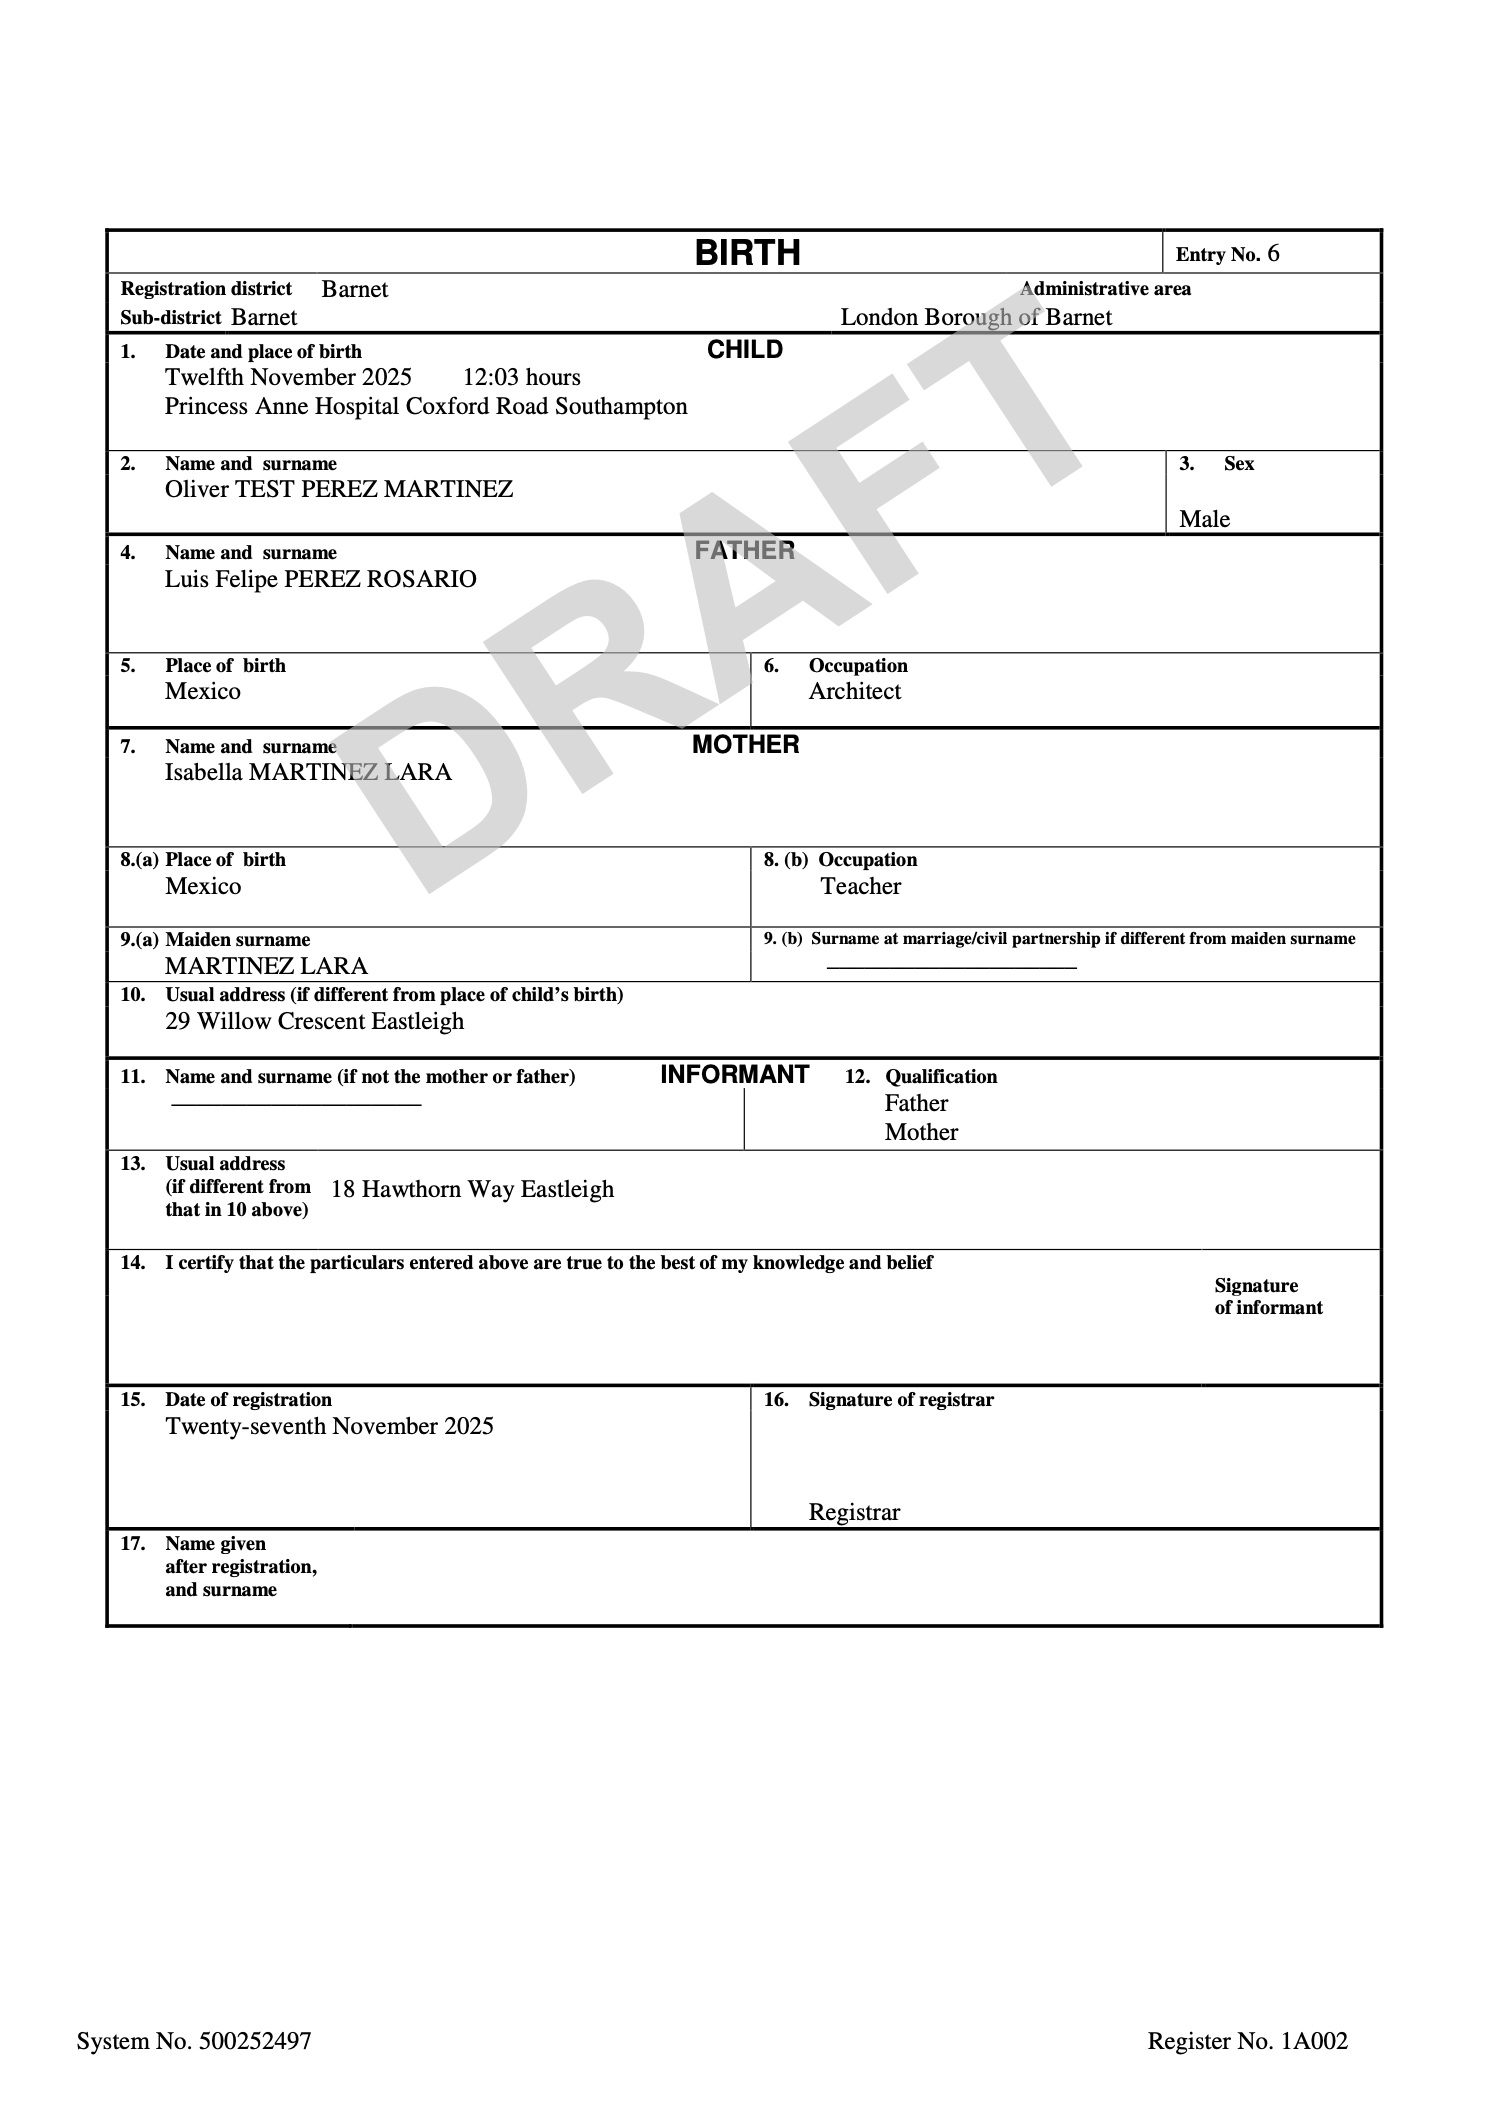
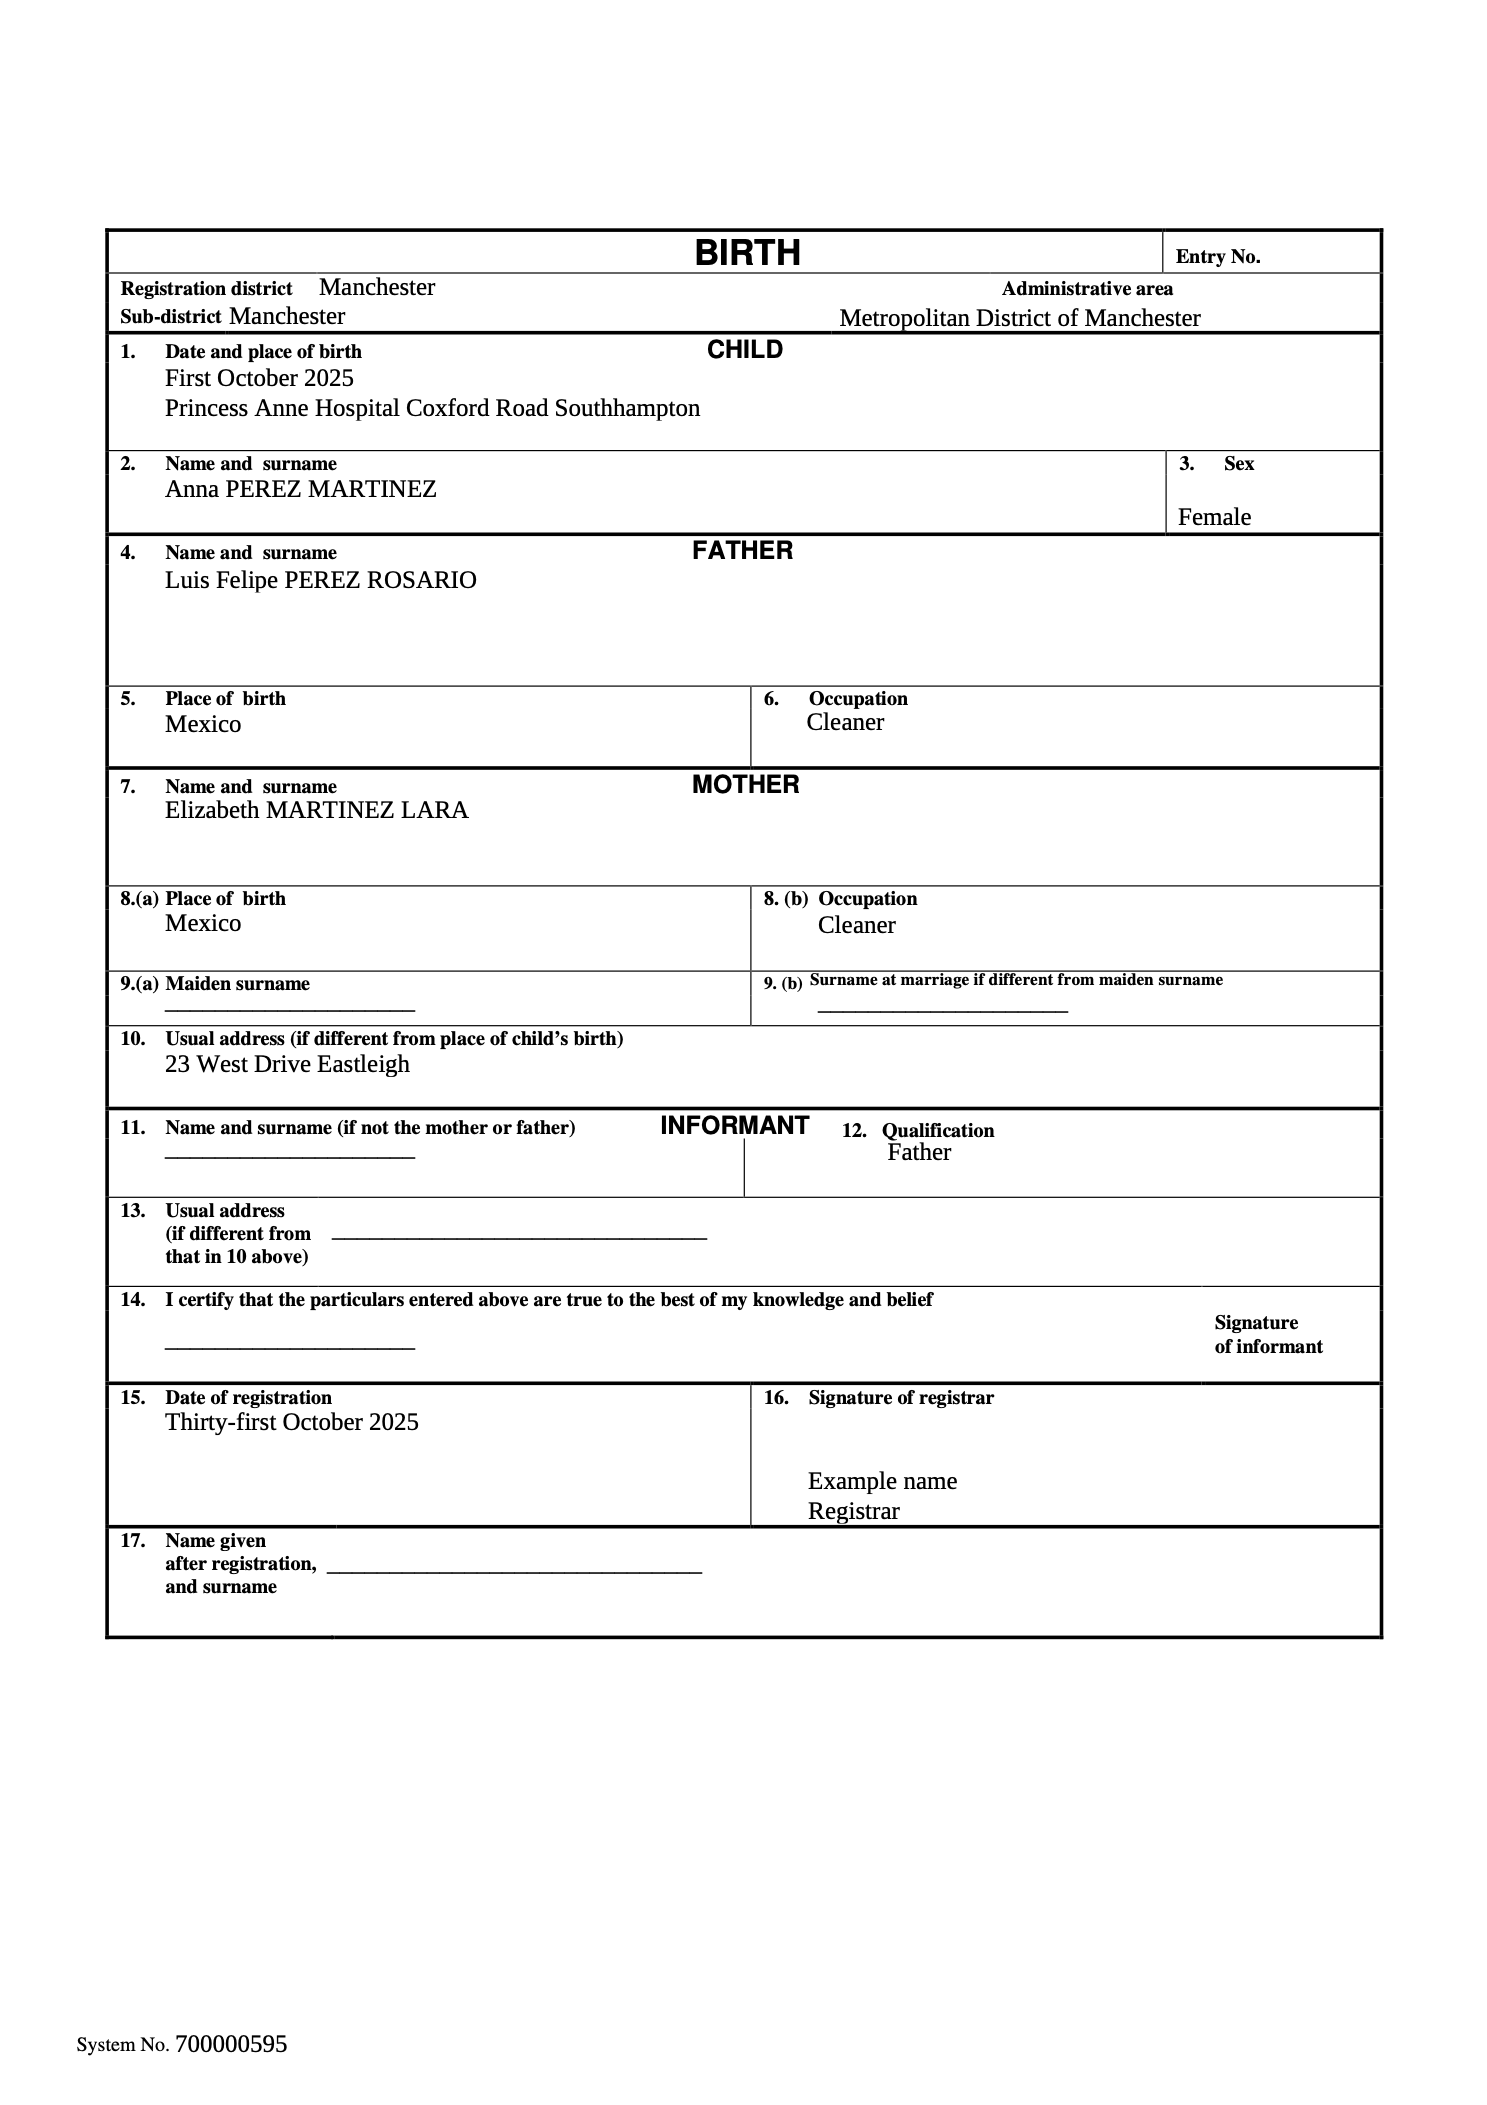
issues fixed - days since-draft cert
also multiple removed

diff --git a/app/data/submission-details.js b/app/data/submission-details.js
@@ -8,7 +8,7 @@ const records = [
     relationshipType: 'Yes',
     printNumber: '1',
     submissionDate: '4 February 2026',
-    daysSinceSubmission: '7',
+    daysSinceSubmission: '5',
     referenceNumber: '2026/8493453855695001-WA',
     
     //child 1
@@ -91,7 +91,7 @@ const records = [
     relationshipType: 'Yes',
     printNumber: '1',
     submissionDate: '4 February 2026',
-    daysSinceSubmission: '7',
+    daysSinceSubmission: '5',
     referenceNumber: '2026/8493453868883245-WA',
     //child 2
     childFirstName: 'Trevor',
@@ -173,7 +173,7 @@ const records = [
   relationshipType: 'No',
   printNumber: '1',
   submissionDate: '31 January 2026',
-  daysSinceSubmission: '7',
+  daysSinceSubmission: '5',
   referenceNumber: '2026/9096411180994545-WA',
 
   // child 3
@@ -255,7 +255,7 @@ const records = [
   relationshipType: 'Yes',
   printNumber: '1',
   submissionDate: '4 February 2026',
-  daysSinceSubmission: '6',
+  daysSinceSubmission: '4',
   referenceNumber: '2026/5176807879976211-WA',
 
   // child 4
@@ -338,7 +338,7 @@ const records = [
   relationshipType: 'No',
   printNumber: '1',
   submissionDate: '1 February 2026',
-  daysSinceSubmission: '6',
+  daysSinceSubmission: '4',
   referenceNumber: '2026/6276032933248051-WA',
 
   // child 5
@@ -421,7 +421,7 @@ const records = [
   relationshipType: 'Yes',
   printNumber: '1',
   submissionDate: '2 February 2026',
-  daysSinceSubmission: '5',
+  daysSinceSubmission: '4',
   referenceNumber: '2026/4275847818426044-WA',
 
   // child 6
@@ -504,7 +504,7 @@ const records = [
   relationshipType: 'Yes',
   printNumber: '1',
   submissionDate: '31 January 2026',
-  daysSinceSubmission: '3',
+  daysSinceSubmission: '4',
   referenceNumber: '2026/7509741457818402-WA',
 
   // child 7
@@ -587,7 +587,7 @@ const records = [
   relationshipType: 'Yes',
   printNumber: 'None',
   submissionDate: '31 January 2026',
-  daysSinceSubmission: '2',
+  daysSinceSubmission: '4',
   referenceNumber: '2026/0350801284377829-WA',
 
   // child 10
@@ -670,7 +670,7 @@ const records = [
   relationshipType: 'Yes',
   printNumber: '1',
   submissionDate: '30 January 2026',
-  daysSinceSubmission: '2',
+  daysSinceSubmission: '3',
   referenceNumber: '2026/5335676801370276-WA',
 
   // child 11

diff --git a/app/views/registrar-view-of-online/v2/04a-notification-detail.html b/app/views/registrar-view-of-online/v2/04a-notification-detail.html
@@ -106,12 +106,12 @@
   </div>
 </div>
 
-  <div class="govuk-grid-row" id="heading">
+  <!-- <div class="govuk-grid-row" id="heading">
   <div class="govuk-grid-column-full">
     <span class="govuk-caption-m govuk-!-font-size-16">Multiple birth</span>
-<h1 class="govuk-heading-s">Child 1 out of 2</h1>
+<h1 class="govuk-heading-s">Child 1 of 2 </h1>
   </div>
-</div>
+</div> -->
 
 <div class="govuk-grid-row" id="child-1-name">
   <div class="govuk-grid-column-one-quarter">
@@ -175,7 +175,7 @@
 </div>
 
 
-
+<!-- 
 <details class="govuk-details" >
   <summary class="govuk-details__summary">
     <span class="govuk-details__summary-text">
@@ -234,12 +234,7 @@
       Wakefield
     </p>
   </div>
-   <!-- <div class="govuk-grid-column-one-half">
-    <p class="govuk-body-s"><strong>Address on notification</strong><br>
-       {{ data['mothers-street'] }},<br>
-      Luton {{ data['mothers-pcode2'] }}
-    </p>
-  </div> -->
+ 
 
     <div class="govuk-grid-column-one-quarter">
     <p class="govuk-body-s"><strong>Current address on notification</strong><br>
@@ -250,14 +245,13 @@
   <div class="govuk-grid-column-one-quarter">
     <p class="govuk-body-s"><strong>Discharge address on notification</strong><br>
     {{ record.nhsMotherAddressToB }}
-       <!-- {{ data['mothers-street'] }},<br>
-      Luton {{ data['mothers-pcode'] }} -->
+     
     </p>
   </div>
 </div>
 
 </div>
-</details>
+</details> -->
 
 
 
